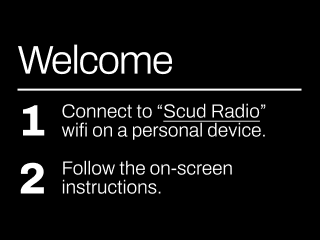
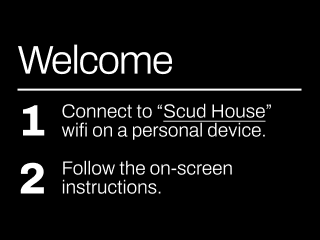
new wifi screens

Changed region(s): [[0.6562, 0.4083, 0.8438, 0.525]]

diff --git a/comitup-templates/confirm.html b/comitup-templates/confirm.html
@@ -16,7 +16,7 @@
     </div>
     <div class="uk-width-large uk-padding-small">
         <div class="uk-width-1-1 uk-text-center">
-            <img id="ears-logo" src="css/ears.png">
+            <img id="ears-logo" src="css/logo.png">
         </div>
 
         <div class="uk-margin">
@@ -39,4 +39,3 @@
 
 <!-- JS FILES -->
 <script src="js/uikit"></script>
-<script src="js/uikit-icons"></script>

diff --git a/comitup-templates/connect.html b/comitup-templates/connect.html
@@ -16,7 +16,7 @@
     </div>
     <div class="uk-width-large uk-padding-small">
         <div class="uk-width-1-1 uk-text-center">
-            <img id="ears-logo" src="css/ears.png">
+            <img id="ears-logo" src="css/logo.png">
         </div>
 
         <div class="uk-margin">
@@ -31,4 +31,3 @@
 
 <!-- JS FILES -->
 <script src="js/uikit"></script>
-<script src="js/uikit-icons"></script>

diff --git a/comitup-templates/index.html b/comitup-templates/index.html
@@ -16,7 +16,7 @@
     </div>
     <div class="uk-width-large uk-padding-small">
         <div class="uk-width-1-1 uk-text-center">
-            <img id="ears-logo" src="css/ears.png">
+            <img id="ears-logo" src="css/logo.png">
             <p class="uk-text-large"></p>
         </div>
 
@@ -40,7 +40,6 @@
 
 <!-- JS FILES -->
 <script src="js/uikit"></script>
-<script src="js/uikit-icons"></script>
 
 </body>
 </html>

diff --git a/comitup-templates/css/uikit.css b/comitup-templates/css/uikit.css
@@ -1180,7 +1180,7 @@ button.uk-icon:not(:disabled) {
 }
 
 #ears-logo {
-  animation: rotate 6s linear infinite;
+  /*animation: rotate 6s linear infinite;*/
   height: 150px;
   margin-top: 50px;
 }